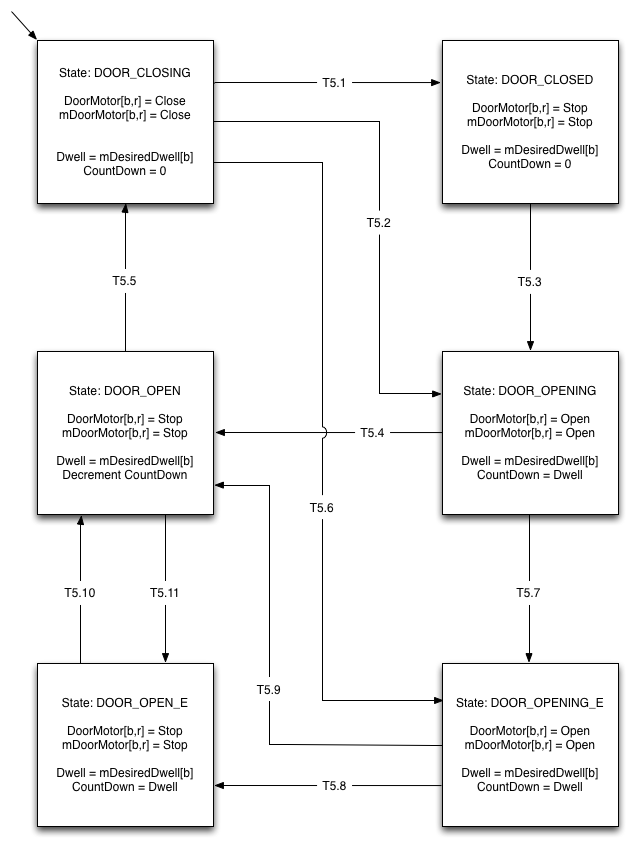
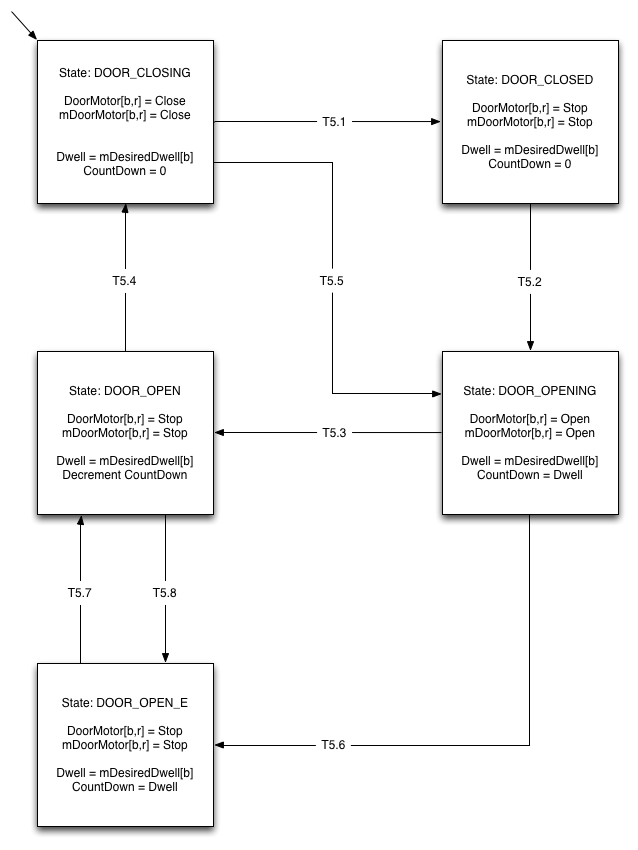
Simplified version of new DoorControl states/transitions

diff --git a/portfolio/reqs/requirements2.html b/portfolio/reqs/requirements2.html
@@ -1039,7 +1039,7 @@
     <img alt="SC_DoorControl" src="SC_DoorControl.png"><br>
     <br>
     <meta charset="utf-8">
-    <table style="font-family: Times; letter-spacing: normal; orphans:
+<table style="font-family: Times; letter-spacing: normal; orphans:
       2; text-indent: 0px; text-transform: none; widows: 2;
       word-spacing: 0px; text-align: left;" border="1" cellpadding="2"
       cellspacing="2">
@@ -1064,74 +1064,57 @@
           <td style="vertical-align: top; "> ( mAtFloor[f,b]==True
             &amp;&amp; mDesiredFloor.f==f &amp;&amp; (
             mDriveSpeed==(0,d) || mDriveSpeed==(s, Stop) ) )<br>
+            || ( mCarWeight(g) &gt;= MaxCarCapacity &amp;&amp;
+            mDoorOpened[b,r]==False )<br>
+            || ( mDoorReversal==True &amp;&amp; mDoorOpened[b,r]==False
+            )<br>
             || ( mCarCall[f,b]==True &amp;&amp; mAtFloor[f,b]==True )<br>
           </td>
         </tr>
         <tr>
           <td style="vertical-align: top; ">T5.3<br>
           </td>
-          <td style="vertical-align: top; "> ( mAtFloor[f,b]==True
-            &amp;&amp; mDesiredFloor.f==f &amp;&amp; (
-            mDriveSpeed==(0,d) || mDriveSpeed==(s, Stop) ) )<br>
-            || ( mCarCall[f,b]==True &amp;&amp; mAtFloor[f,b]==True )<br>
+          <td style="vertical-align: top; ">mDoorOpened[b,r]==True
+            &amp;&amp; mCarWeight(g) &lt; MaxCarCapacity
+            &amp;&amp; mDoorReversal==False<br>
           </td>
         </tr>
         <tr>
           <td style="vertical-align: top; ">T5.4<br>
           </td>
-          <td style="vertical-align: top; ">mDoorOpened[b,r]==True<br>
+          <td style="vertical-align: top; ">CountDown&lt;=0<br>
           </td>
         </tr>
         <tr>
           <td style="vertical-align: top; ">T5.5<br>
           </td>
-          <td style="vertical-align: top; ">CountDown&lt;=0<br>
+          <td style="vertical-align: top; "> ( mAtFloor[f,b]==True
+            &amp;&amp; mDesiredFloor.f==f &amp;&amp; (
+            mDriveSpeed==(0,d) || mDriveSpeed==(s, Stop) ) )<br>
+            || ( mCarWeight(g) &gt;= MaxCarCapacity &amp;&amp;
+            mDoorOpened[b,r]==False )<br>
+            || ( mDoorReversal==True &amp;&amp; mDoorOpened[b,r]==False
+            )<br>
+            || ( mCarCall[f,b]==True &amp;&amp; mAtFloor[f,b]==True )<br>
           </td>
         </tr>
         <tr>
           <td style="vertical-align: top; ">T5.6<br>
           </td>
           <td style="vertical-align: top; ">( mCarWeight(g) &gt;= MaxCarCapacity &amp;&amp;
-            mDoorOpened[b,r]==False )<br>
-            || ( mDoorReversal==True &amp;&amp; mDoorOpened[b,r]==False
-            )<br>
+            mDoorOpened[b,r]==True )<br>
+            || ( mDoorReversal==True &amp;&amp; mDoorOpened[b,r]==True )<br>
           </td>
         </tr>
         <tr>
           <td style="vertical-align: top; ">T5.7<br>
           </td>
-          <td style="vertical-align: top; ">( mCarWeight(g) &gt;= MaxCarCapacity &amp;&amp;
-            mDoorOpened[b,r]==False )<br>
-            || ( mDoorReversal==True &amp;&amp; mDoorOpened[b,r]==False
-            )<br>
+          <td style="vertical-align: top; ">mCarWeight(g) &lt; MaxCarCapacity
+            &amp;&amp; mDoorReversal==False<br>
           </td>
         </tr>
         <tr>
           <td style="vertical-align: top; ">T5.8<br>
-          </td>
-          <td style="vertical-align: top; ">( mDoorOpened[b,r]==True )<br>
-            &amp;&amp; ( ( mCarWeight(g) &gt;= MaxCarCapacity &amp;&amp;
-            mDoorOpened[b,r]==False )<br>
-            &nbsp;&nbsp;&nbsp;&nbsp;&nbsp;&nbsp;&nbsp;&nbsp;|| ( mDoorReversal==True &amp;&amp; mDoorOpened[b,r]==False ) )
-          </td>
-        </tr>
-        <tr>
-          <td style="vertical-align: top; ">T5.9<br>
-          </td>
-          <td style="vertical-align: top; ">( mDoorOpened[b,r]==True )<br>
-            &amp;&amp; ( mCarWeight(g) &lt; MaxCarCapacity )<br>
-            &amp;&amp; ( mDoorReversal==False )
-          </td>
-        </tr>
-        <tr>
-          <td style="vertical-align: top; ">T5.10<br>
-          </td>
-          <td style="vertical-align: top; ">mCarWeight(g) &lt; MaxCarCapacity &amp;&amp;
-            mDoorReversal==False<br>
-          </td>
-        </tr>
-        <tr>
-          <td style="vertical-align: top; ">T5.11<br>
           </td>
           <td style="vertical-align: top; ">mCarWeight(g) &gt;= MaxCarCapacity
             || mDoorReversal==True<br>
